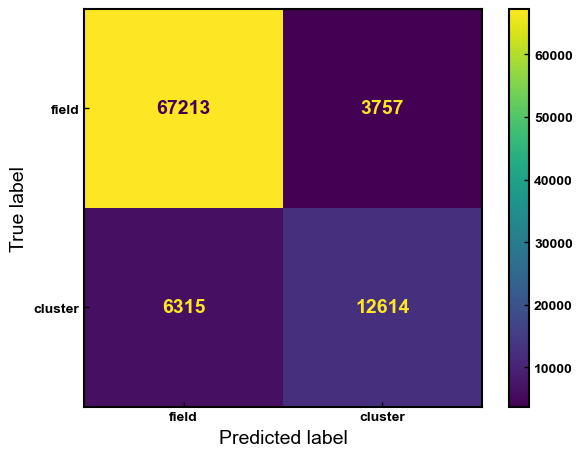
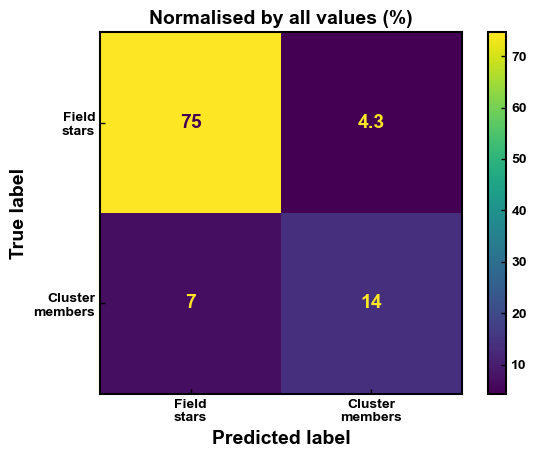
cm and readme update

diff --git a/README.md b/README.md
@@ -1,19 +1,28 @@
-Here I keep different ways to decontaminate a cluster's CMD based only on the photometry of the field and cluster regions.
+Here I keep different ways to decontaminate the CMD of a cluster, based only on the photometry of the field and cluster regions.
 
-1. decontaminate_ngc419.ipynb: is method presented in [Cabrera-Ziri et al. (2020)](https://ui.adsabs.harvard.edu/abs/2020MNRAS.495..375C/abstract) based on statistical decontamination of CMD.
+1. decontaminate_ngc419.ipynb: is the method presented in [Cabrera-Ziri et al. (2020)](https://ui.adsabs.harvard.edu/abs/2020MNRAS.495..375C/abstract) based on statistical decontamination of CMD.
 
-2. first_pop_classifier.ipynb: Proof of concept random forest classifier based on perfect membership labels. This will be developed to be trained on mock data (i.e. real world labels).
+2. first_pop_classifier.ipynb: Proof-of-concept random forest classifier based on perfect membership labels. This will be developed to be trained on mock data (i.e. real world labels).
 
-3. pop_classifier.ipynb: based on first_pop_classifier. But:
-    - From a sample of (mostly) cluster stars and (mostly) field stars defined from the centre and outskirts
-    of cluster, get a model of cluster and field CMD based on GMM.
-    - Distribute uniformly in space field stars. For cluster stars follow Plummer model of the cluster's radius
-    - Train classifier using this mock data and check performance. *It's very important that spatial footprint 
-    is similat to data!!!*. 
+3. pop_classifier.ipynb: Based on first_pop_classifier. But:
+    - From a sample of (mostly) cluster stars and (mostly) field stars, defined from the centre and outskirts of the cluster.
+
+    ![m4 starting samples](figures/starting_samples.png "m4 starting samples")
+
+    - Then we model the cluster and field CMD using GMM.
+
+    ![mock cluster CMD](figures/mock_cluster_CMD.png "mock cluster CMD")
+
+    - Distribute field stars uniformly in space. For cluster stars follow the Plummer model of the cluster radius.
+    - Train the classifier on this mock data and check performance. *It's very important that spatial footprint is similar to data!!!*.
     
-This is an example of first_pop_classifier on M4 test set:
+This is an example of first_pop_classifier on M4 data set:
 
-![m4 test set](figures/m4_test_set.png "m4 test set")
+![m4 cleaned](figures/m4_cleaned.png "m4 cleaned")
+
+This is the confusion matrix for this dataset:
+
+![m4 confusion matrix](figures/m4_confusion_matrix.png "m4 confusion matrix")
 
 ## To do:
 
